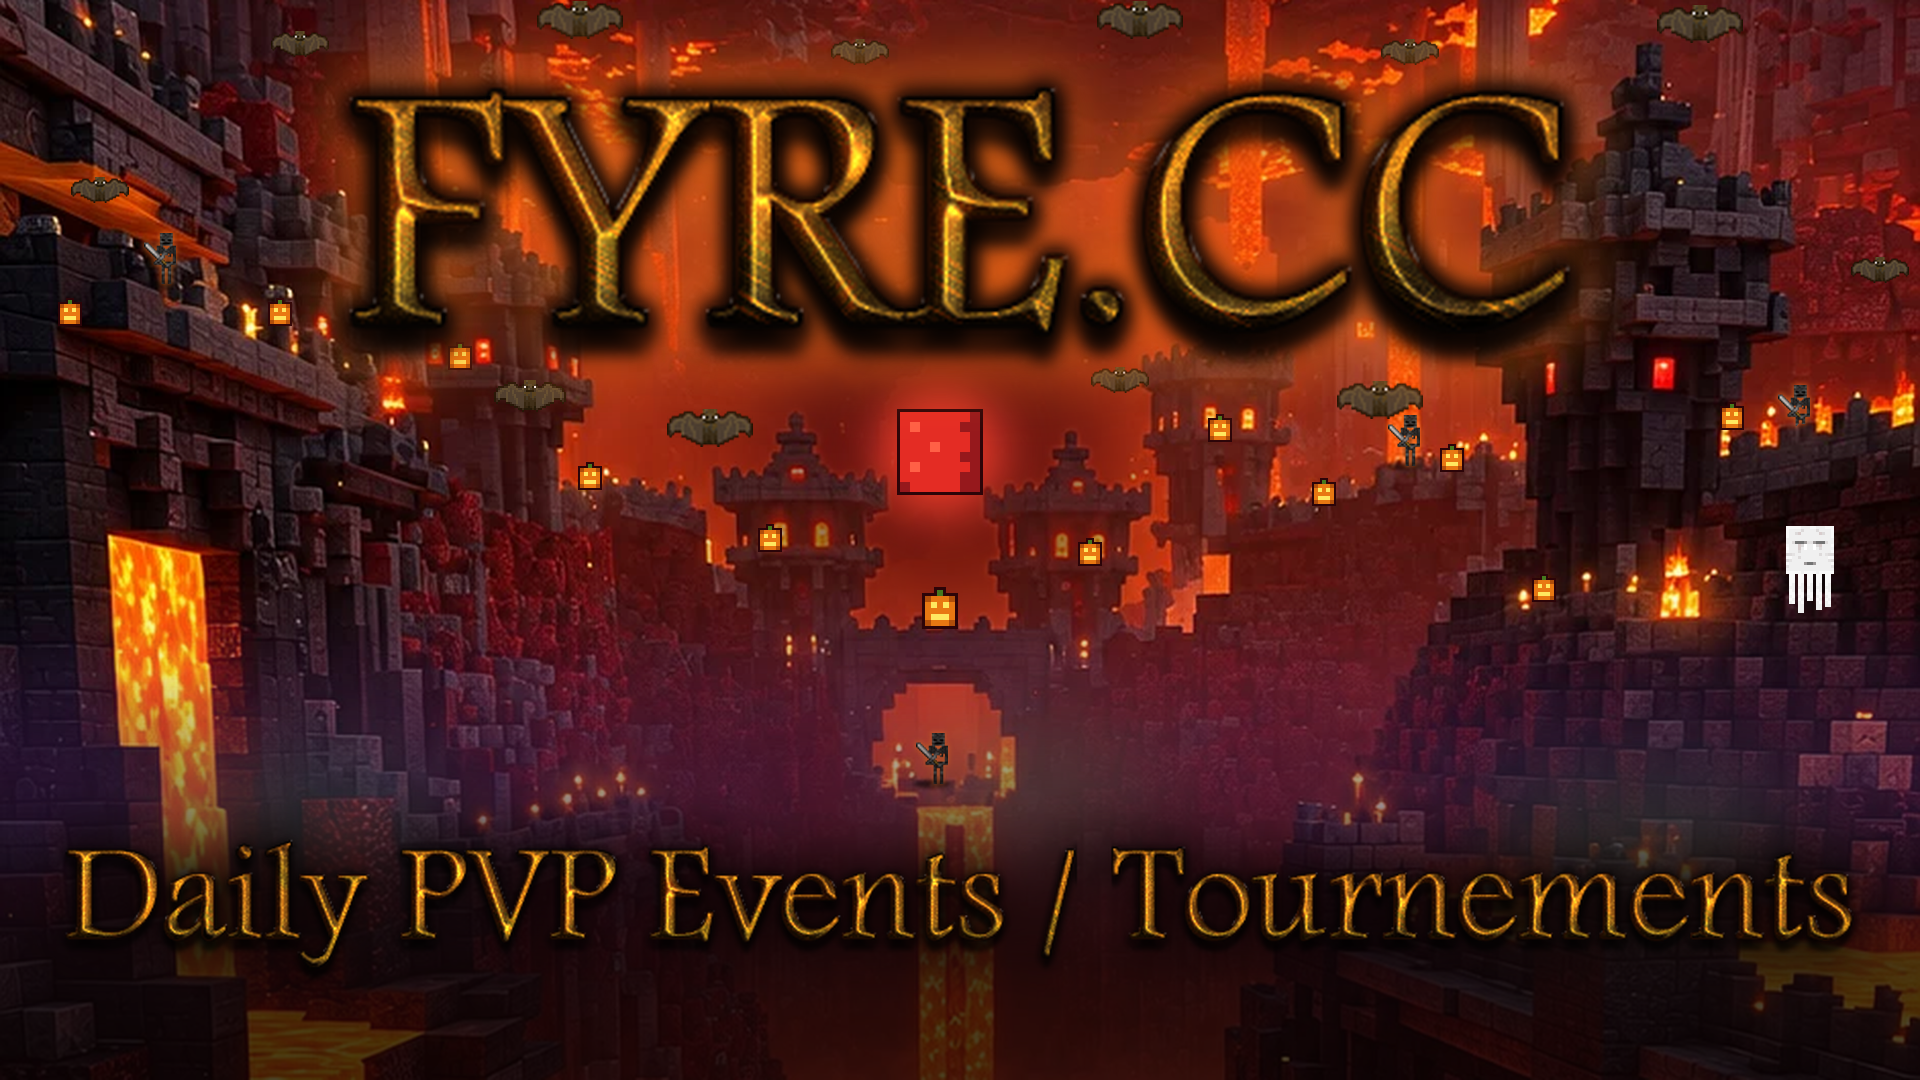
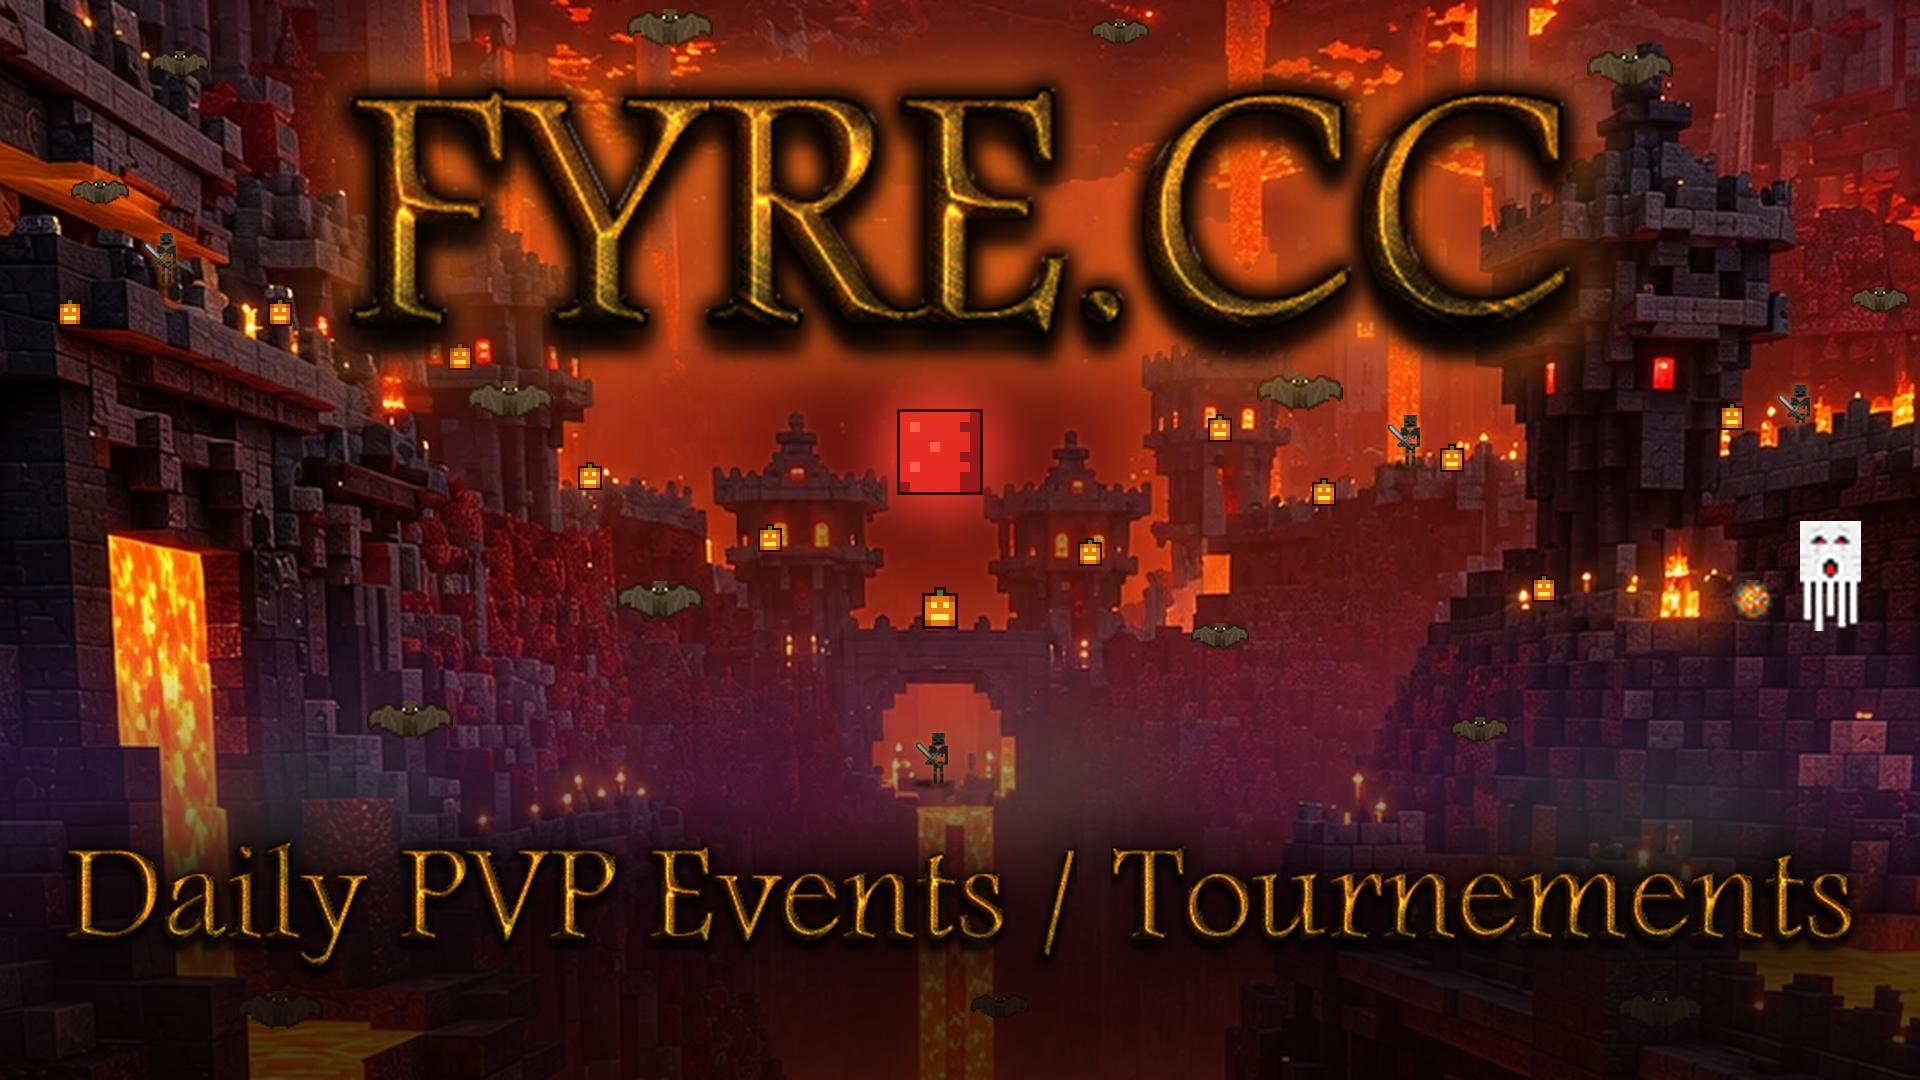
Shooting ghast with a fireball, and bats spread over the whole canvas
The ghast is about 25% bigger and uses the shooting texture (red eyes,
open mouth) with a fireball flying out of it. Bats are spread across the
top, edges, canyon and bottom instead of clustering around the logo.

Claude-Session: https://claude.ai/code/session_01LPehDgsXCVDFiYqWq7LdDj

diff --git a/branding/fyre/halloween.py b/branding/fyre/halloween.py
@@ -148,10 +148,13 @@ def scene(base):
     for x, y, wall in ((80, 142, None), (466, 392, None), (702, 233, None), (897, 218, 212)):
         mob(base, 'wither_skeleton', x*f, y*f, .8*f, anchor='bottom', rim=True,
             behind=wall*f if wall else None, shadow=wall is None)
-    mob(base, 'ghast', 905*f, 285*f, 1.5*f)
-    # two loose rows: the lava-lit strip above the logo and the open sky below it, plus the far edges.
-    for x, y, s in ((150,22,.8), (290,10,1.2), (430,26,.8), (570,10,1.2), (705,26,.8), (850,12,1.2),
-                    (50,95,.8), (265,198,1.0), (355,214,1.2), (560,190,.8), (690,200,1.2), (940,135,.8)):
+    # the ghast shooting a fireball: open mouth, with the fireball flying out toward the castle
+    mob(base, 'ghast_shooting', 915*f, 288*f, 1.9*f)
+    mob(base, 'fireball', 876*f, 300*f, 1.7*f)
+    # bats spread over the whole canvas (x, y, scale): top strip, edges, below the logo, canyon, bottom
+    for x, y, s in ((90,32,.8), (335,14,1.2), (560,16,.8), (815,34,1.2), (50,96,.8), (940,150,.8),
+                    (255,200,1.2), (650,196,1.2), (330,300,1.2), (610,318,.8), (205,360,1.2),
+                    (740,365,.8), (140,505,1.2), (500,503,.8), (830,505,1.2)):
         mob(base, 'bat', x*f, y*f, s*f)
     return base
 

diff --git a/branding/fyre/mobs/README.md b/branding/fyre/mobs/README.md
@@ -9,3 +9,5 @@ mirror of the game files. Minecraft textures belong to Mojang.
 | `wither_skeleton.png` | `1.20.4/.../entity/skeleton/wither_skeleton.png` (head, body, arms, legs front faces) holding `item/stone_sword.png` |
 | `ghast.png` | `1.20.4/.../entity/ghast/ghast.png` (body front face plus five tentacles) |
 | `bat.png` | `1.20.1/.../entity/bat.png` (head, body, inner and outer wings, spread) |
+| `ghast_shooting.png` | `1.20.4/.../entity/ghast/ghast_shooting.png` (same assembly: squinting red eyes, open mouth) |
+| `fireball.png` | `1.20.4/.../textures/item/fire_charge.png`, cropped and brightened so it reads at banner size |
